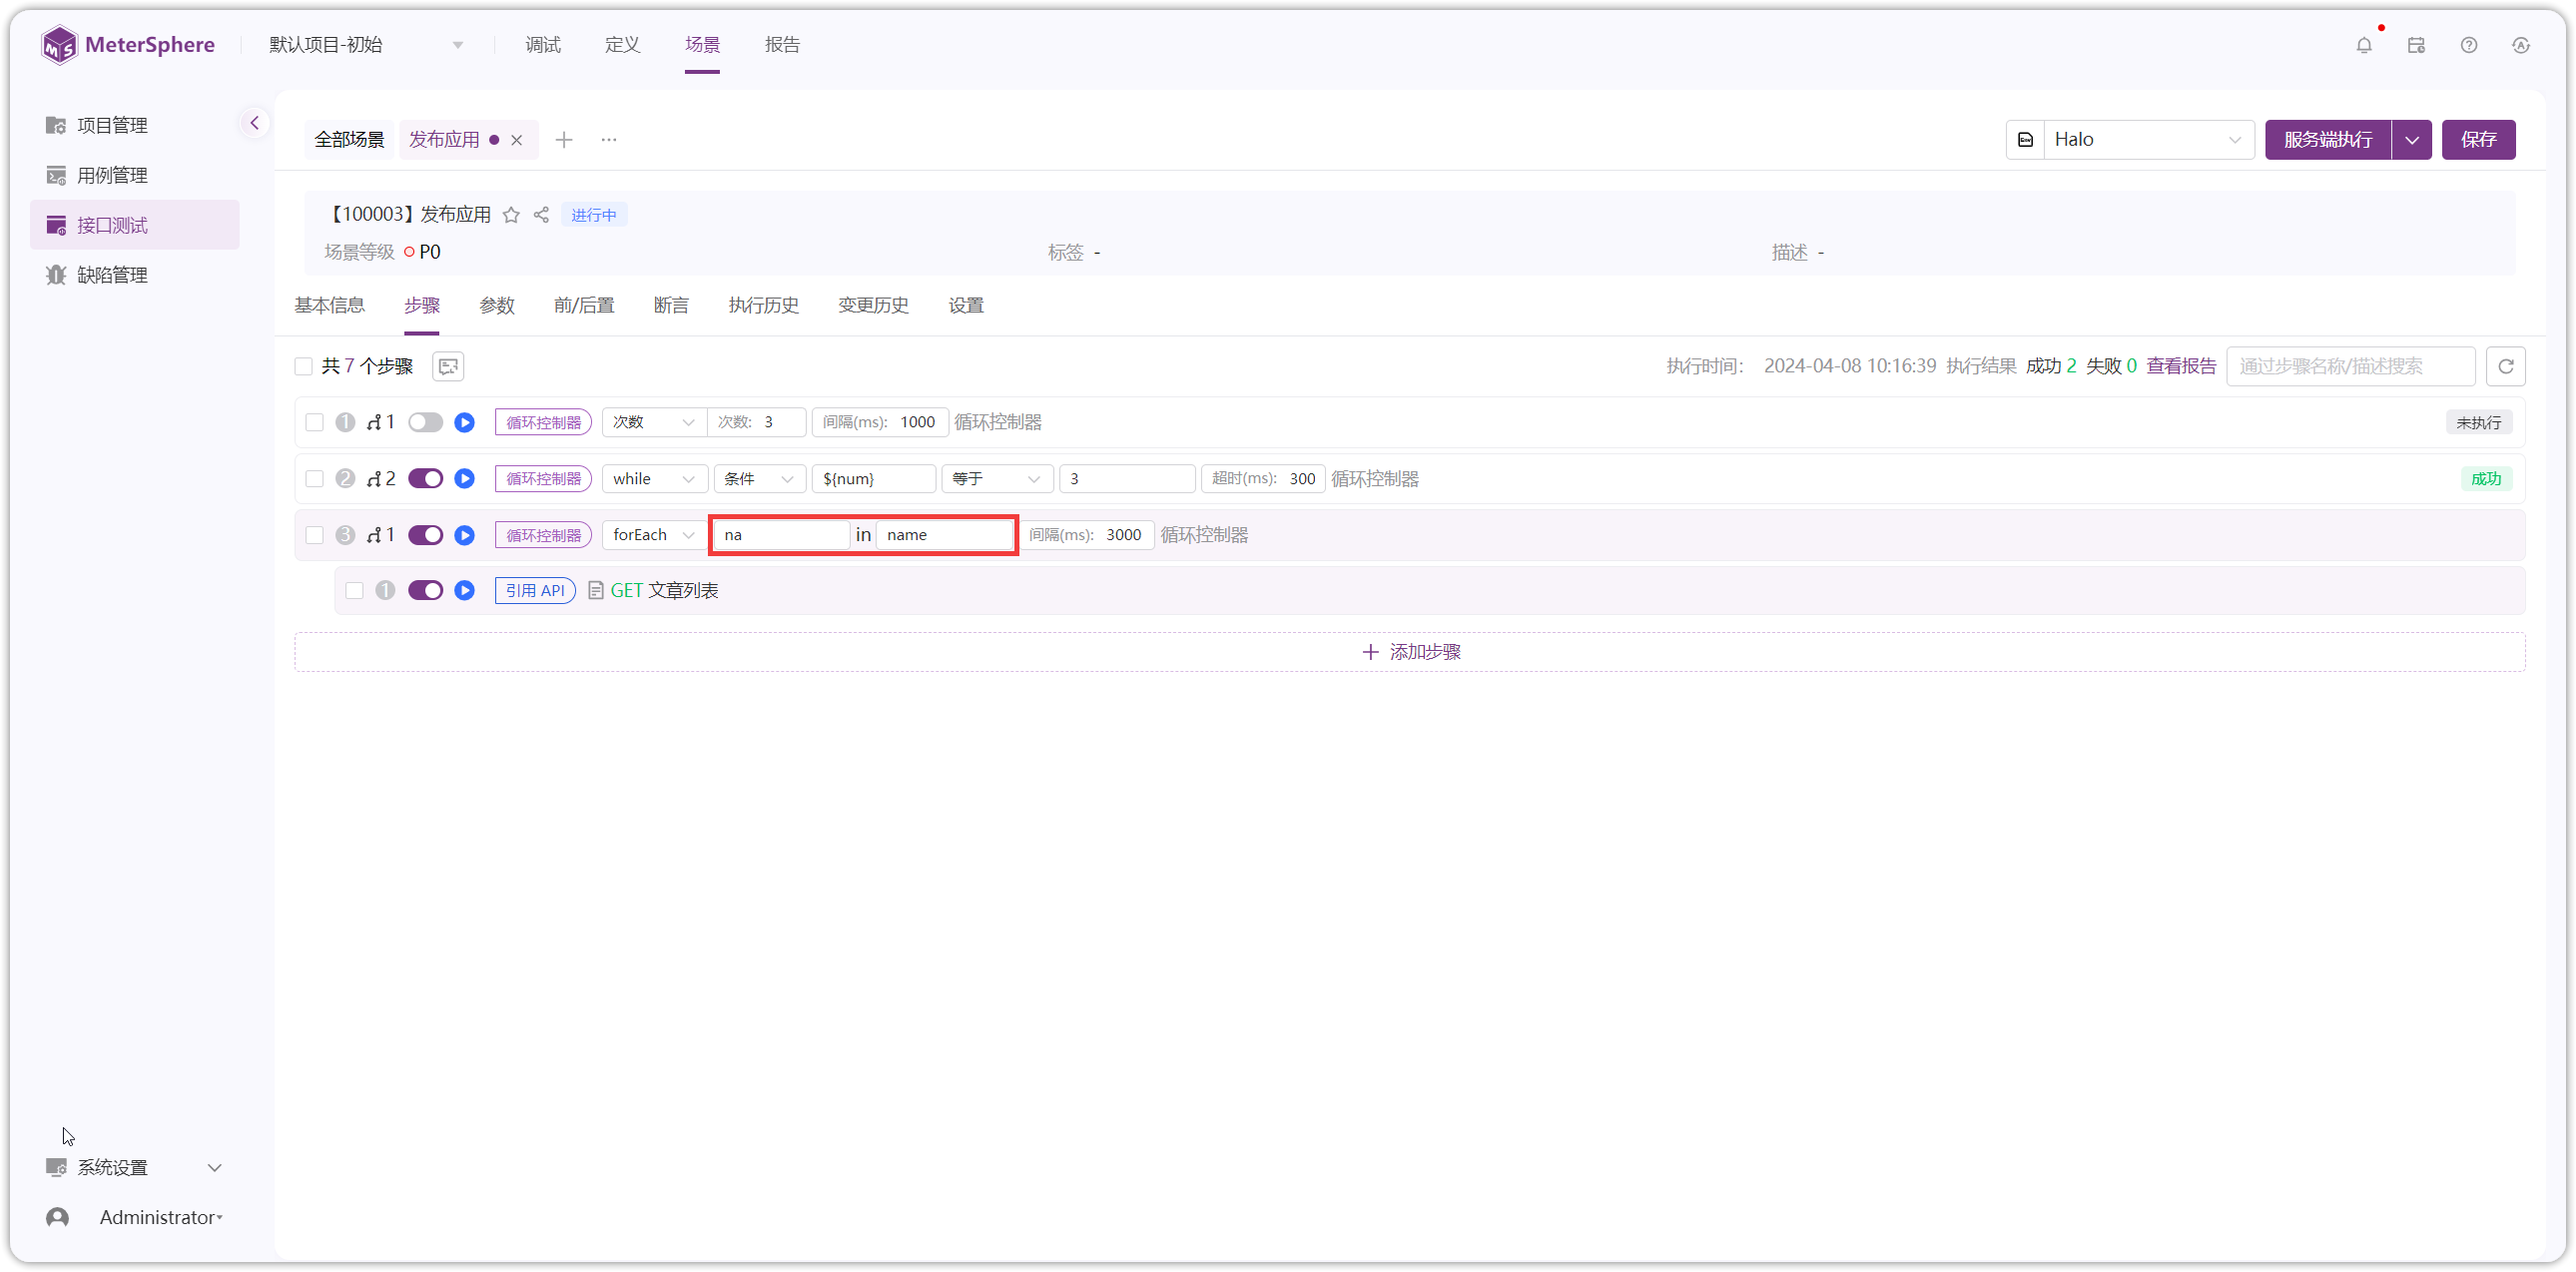
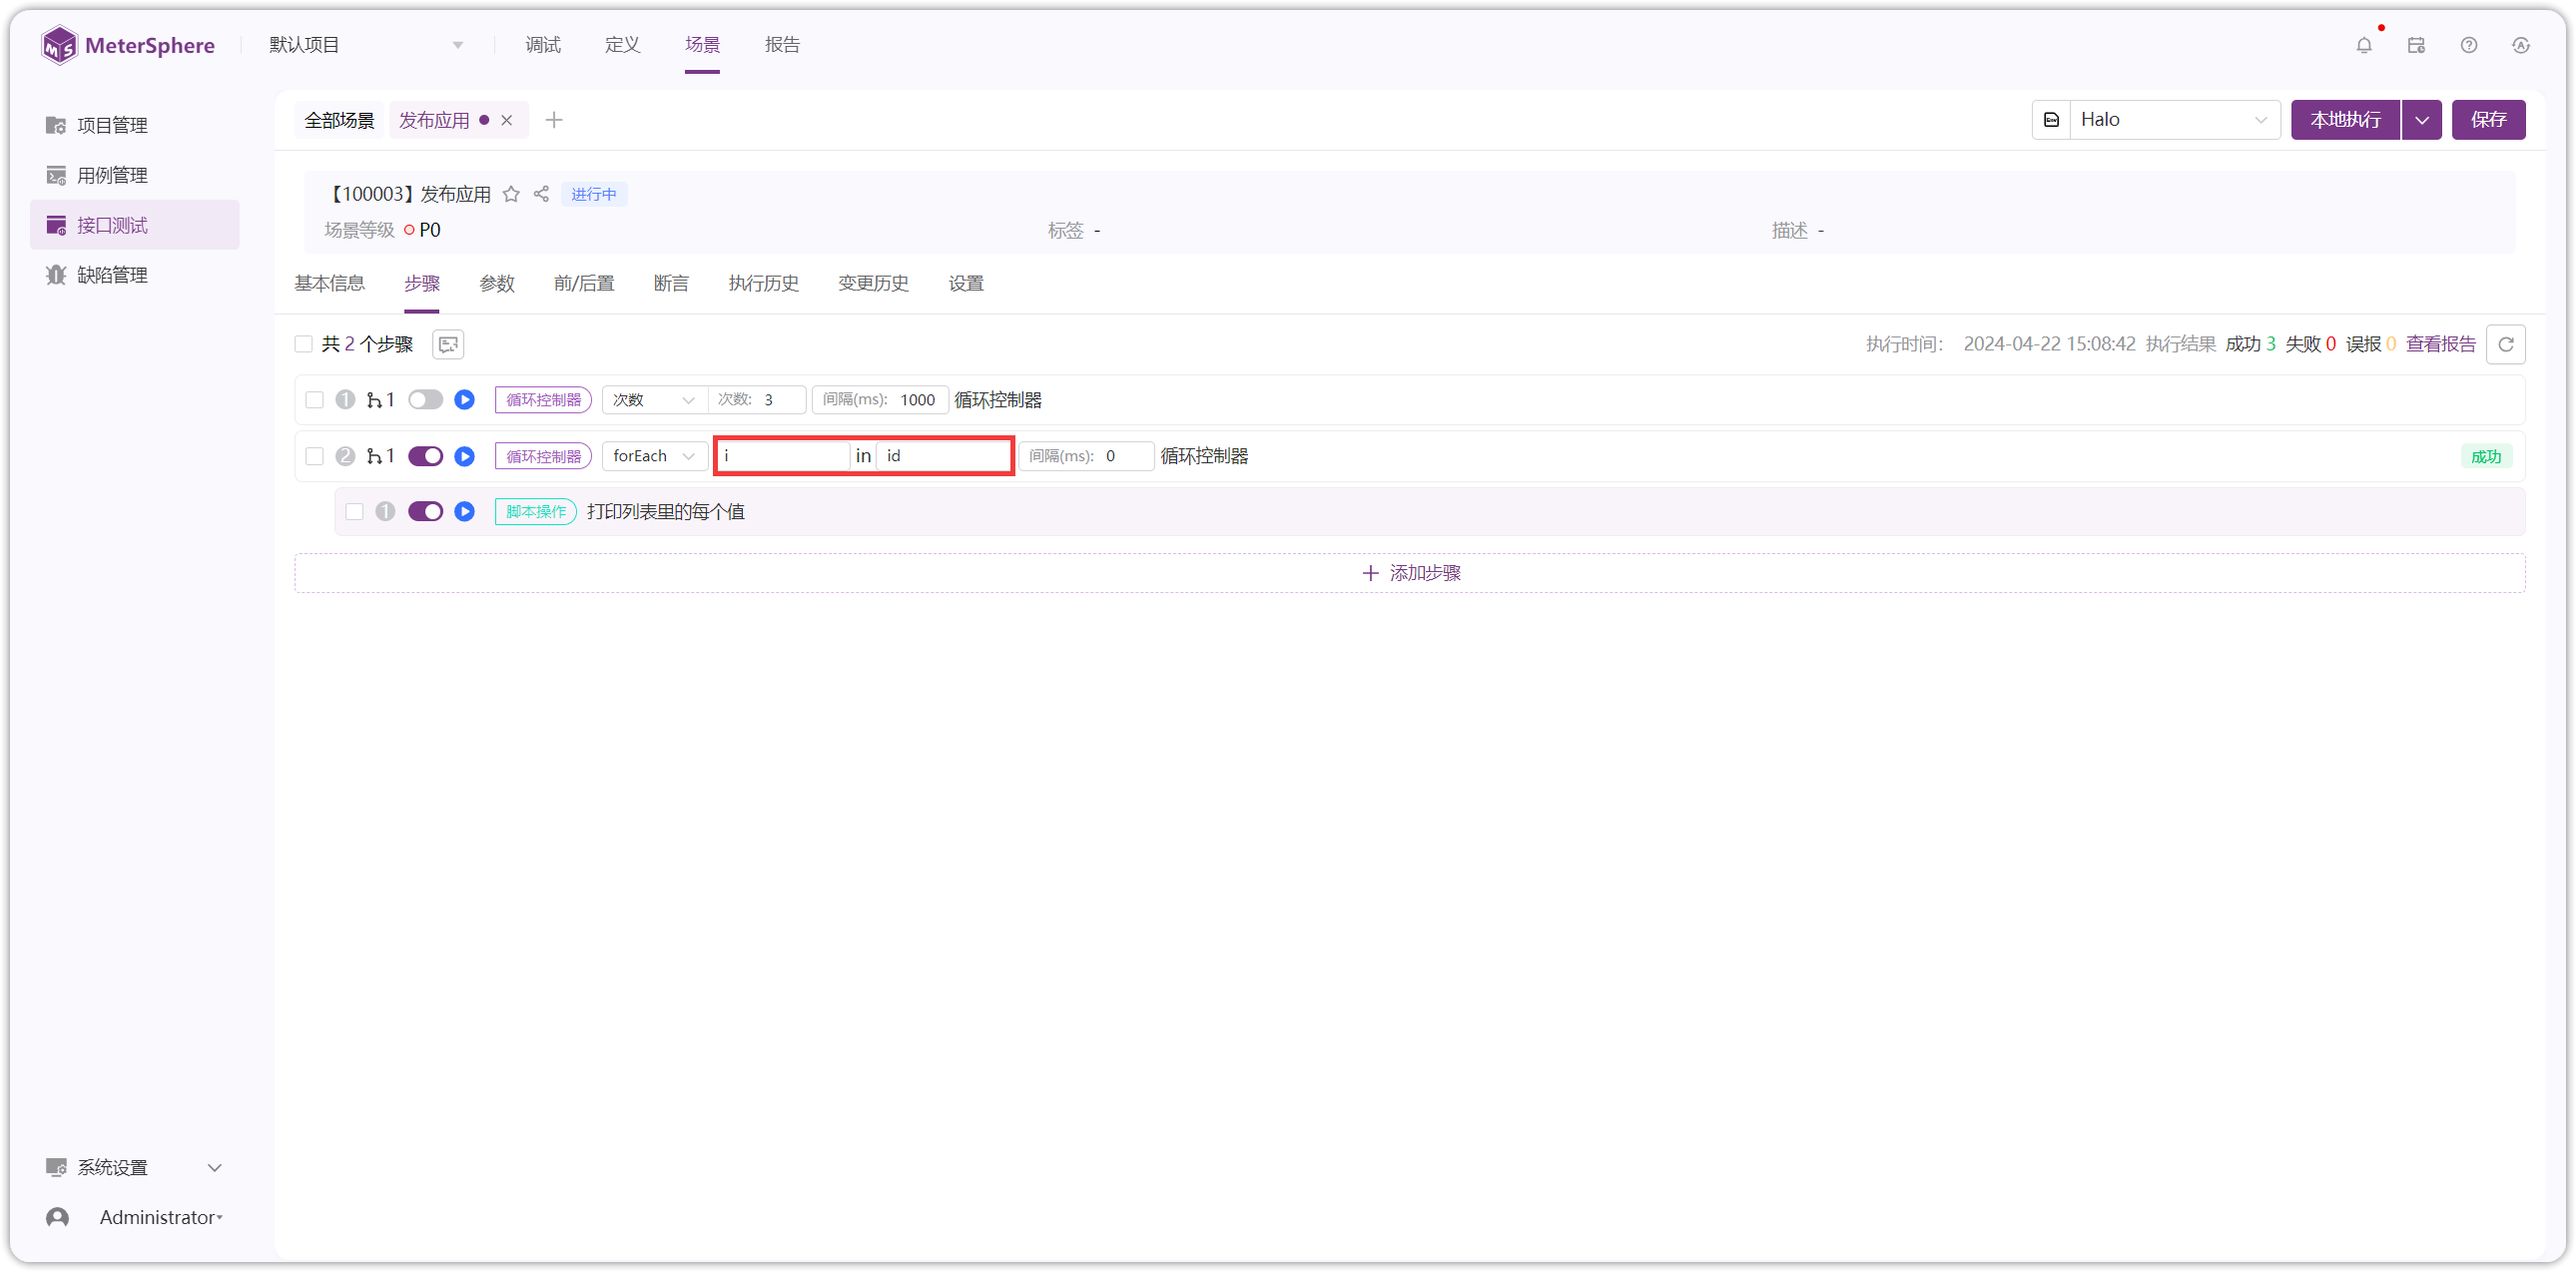
modified: 循环控制器

diff --git a/docs/user_manual/api_test/api_automation.md b/docs/user_manual/api_test/api_automation.md
@@ -113,15 +113,19 @@ description: MeterSphere 一站式开源持续测试平台官方文档。MeterSp
 
 !!! ms-abstract "说明"
 
-    - **表达式类型**：可分为【条件】和【表达式】两种类型。
+    - **表达式类型**：可分为条件和表达式两种类型。
         - **条件**： 匹配条件可以下拉选择。
         - **表达式**：数值表达式，如 1 == 1，1 !=  2，2 > 1 ；
                      字符串表达式，如 "abc".equals("abc")，"abc".contains("a")。
     - **超时时间**：由于 while 循环的特殊性，当条件满足时将会一直循环，为了避免死循环的情况出现，用户可以配置循环超时时间，到超过该时间后，不管循环条件是否满足，循环都将被终止。
 
 !!! ms-abstract ""
-    【forEach 循环】，将请求拖拽到控制器里，设置 forEach 遍历变量、时间间隔。
+    【forEach 循环】，将请求拖拽到控制器里，设置 forEach 遍历变量、时间间隔。以列表变量为例进行 forEach 循环
+![!forEach控制器](../../img/api_test/api_automation/foreach列表变量值.png){ width="900px" }
+
 ![!forEach控制器](../../img/api_test/api_automation/forEach控制器.png){ width="900px" }
+
+![!forEach控制器](../../img/api_test/api_automation/forEach循环执行结果.png){ width="900px" }
 
 !!! ms-abstract "注意"
     - **存储形式**：forEach 循环一般配合列表变量或提取列表变量或自定义列表变量进行使用，存储形式为 ID_1，ID_2，ID_3 的一组变量，才能进入 forEach 循环。 <br>
